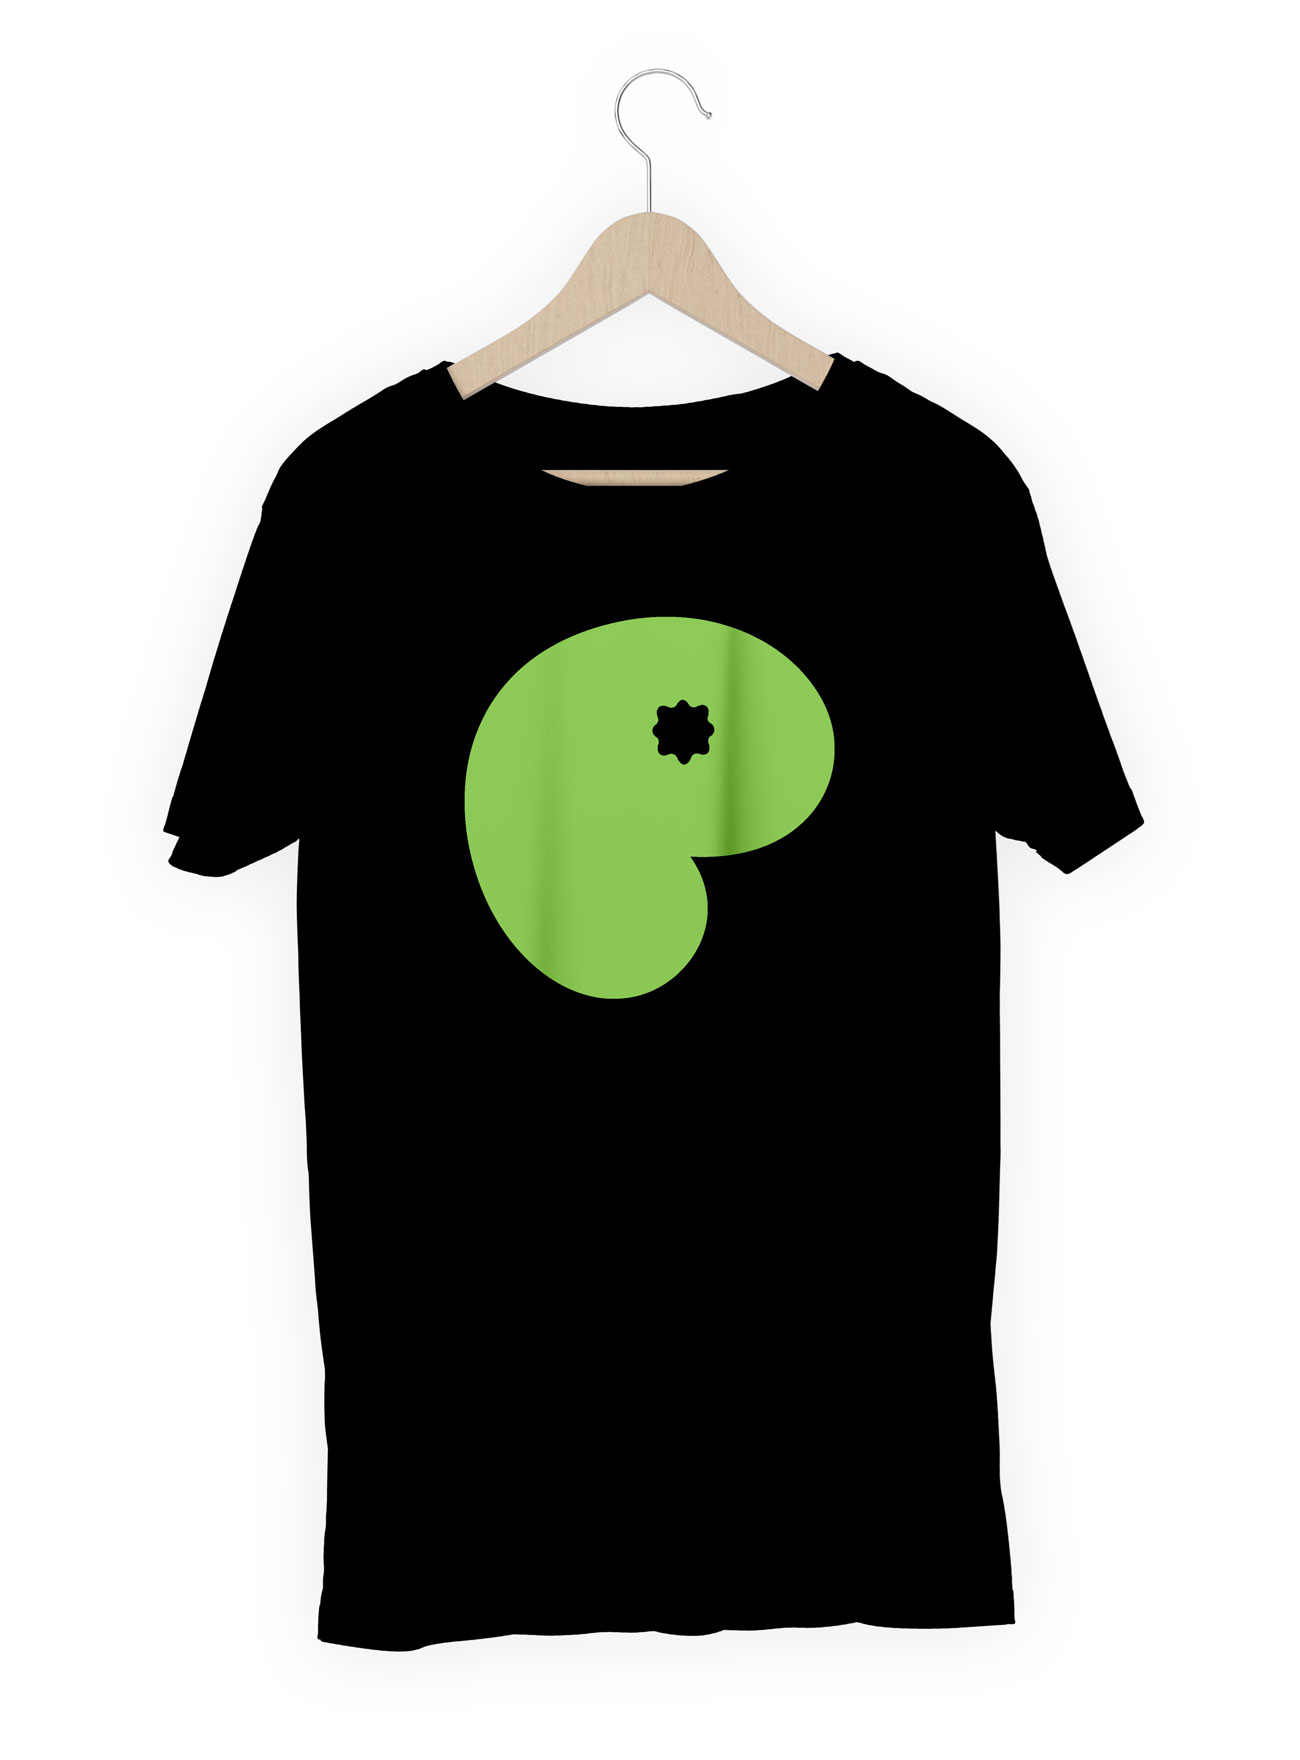
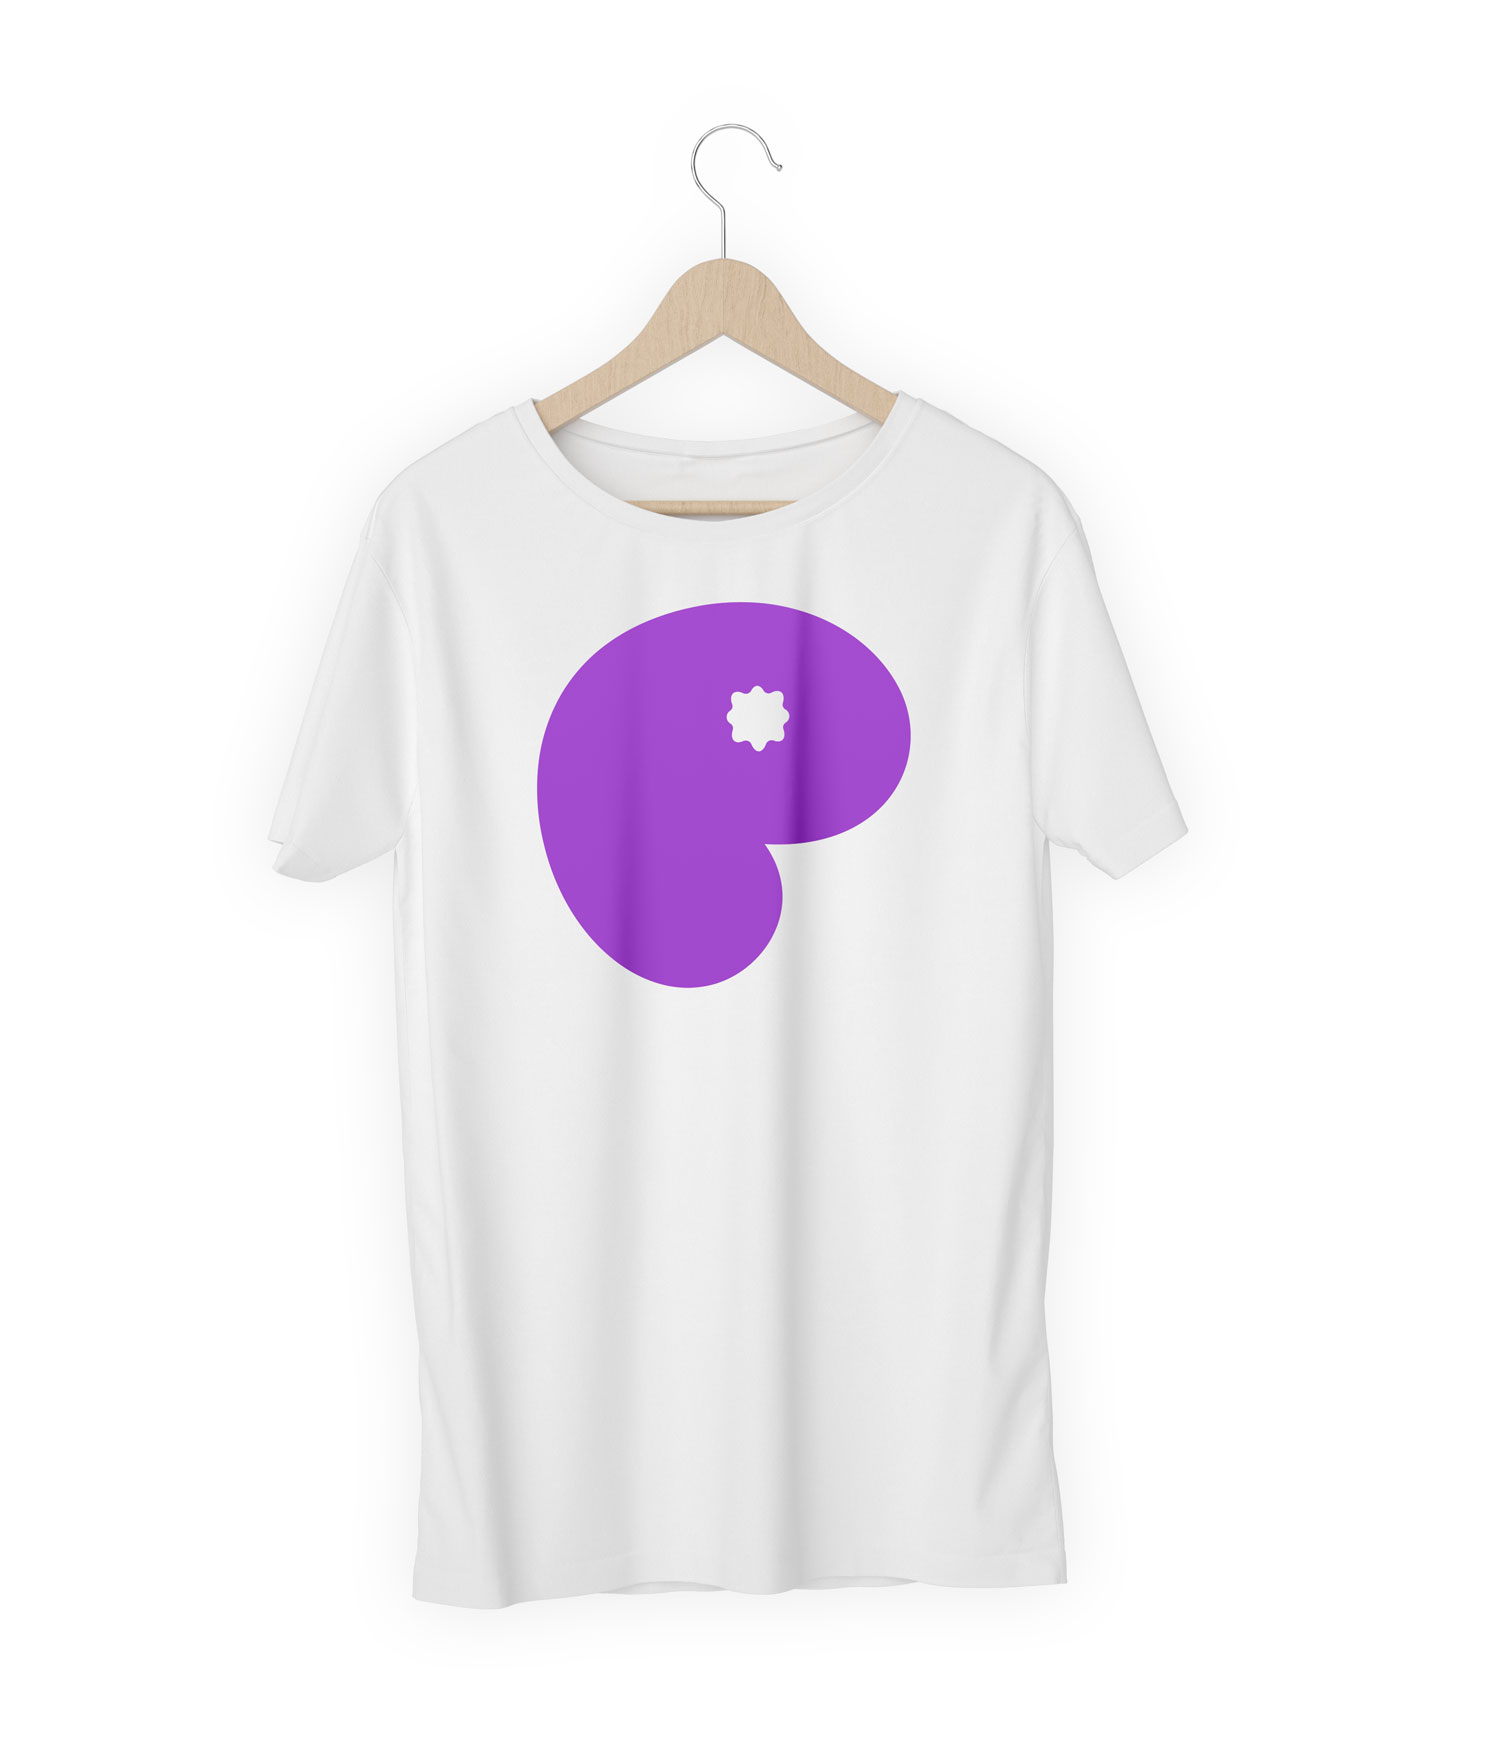
updates

diff --git a/parasite.html b/parasite.html
@@ -33,35 +33,35 @@
                 </p>
         </section>
         <section class="container">
-                <img src="parasite/logo-main.jpg" alt="parasite1" class="pImg3">
-        </section>
-        <section class="container">
-                <img src="parasite/animated-logo.gif" alt="parasite1" class="pImg1">
+                <img src="parasite/logo-main5.jpg" alt="parasite1" class="pImg3">
+        </section><br><br><br>
+       <section class="container">
+                <img src="parasite/logo1.gif" alt="parasite1" class="pImg1">
                 <p class=thirty>
                     The parasitic counter of the logo's &ldquo;P&rdquo; form sometimes takes on a life of its own, rolling independent of its host through various applications. Here it is in a dependent state.
                 </p>
-        </section>
+        </section> 
         <section class="container">
                 <img src="parasite/stationary.jpg" alt="parasite1" class="pImg3">
         </section>
         <section class="container">
-                <img src="parasite/guides.jpg" alt="parasite1" class="pImg1">
-                <img src="parasite/tix.jpg" alt="parasite1" class="pImg2">
+                <img src="parasite/guides2.jpg" alt="parasite1" class="pImg1">
+                <img src="parasite/ticket.jpg" alt="parasite1" class="pImg2">
         </section>
         <section class="container">
-                <img src="parasite/passenger.jpg" alt="parasite1" class="pImg3">        
+                <img src="parasite/pass.jpg" alt="parasite1" class="pImg3">        
         </section>
         <section class="container">
-                <img src="parasite/shirt1.jpg" alt="parasite1" class="pImg2">
+                <img src="parasite/shirt3.jpg" alt="parasite1" class="pImg2">
                 <img src="parasite/bag.jpg" alt="parasite1" class="pImg1">
         </section>
         <section class="container">
-                <img src="parasite/post-signs.jpg" alt="parasite1" class="pImg3">
+                <img src="parasite/lamp_post_signs.jpg" alt="parasite1" class="pImg3">
         </section>
         
-        <section class="container">
+        <!-- <section class="container">
                 <img src="parasite/web.jpg" alt="parasite1" class="pImg3">
-        </section>
+        </section> -->
         <section class="container">
             <p class=thirty>
                     Brand extension proposal:<br><br> During the research phase, I discovered that parasite extinction is a looming threat. To combat this, I conceived of an exhibition/fundraiser, titled "Citizen Parasite." The goals: reverse parasite demonization and raise money for research. The poster set below was designed as part of the extension:

diff --git a/info.html b/info.html
@@ -25,11 +25,12 @@
         </section>
 
         <section class="container">
-                <p class="fiftySeven">
+            
+                <p class="fiftyseven">
                     Hello! I am a graphic designer and writer, soon to graduate from the Rhode Island School of Design. I am always taking freelance inquiries, and I am seeking employment for after I receive my BFA in June.<br><br>Currently, I work at <a href="http://our.risd.edu/tagged/jallegro" target="_blank"><u>RISD Media Group</u></a> as a senior media assistant, as well as the RISD Center for Arts & Language as a tutor. When I'm not designing or writing, I like being outside, hanging with dogs, and food is also good. 
                      <br><br><u><a href="mailto:jallegro@risd.edu">jallegro@risd.edu</a></u><br><br><u><a href="https://www.instagram.com/jallegro.kp/" target="_blank">Instagram</a></u><br><br><u><a href="https://www.linkedin.com/in/joseph-allegro-67b084b3/" target="_blank">LinkedIn</a></u>
                 </p>
-                <img src="portrait.png" alt="portrait1" class="pImg2">
+             <img src="portrait.png" alt="portrait1" class="pImg2">   
         </section>
     </body>
 </html>

diff --git a/seniorshow.html b/seniorshow.html
@@ -13,7 +13,7 @@
     	<meta name="viewport" content="width=device-width, initial-scale=1">
     	<link rel="stylesheet" href="https://use.typekit.net/yat5etw.css">
     	<script src="https://ajax.googleapis.com/ajax/libs/jquery/3.3.1/jquery.min.js"></script>
-    	<title>Joseph Allegro</title>
+    	<title>Joseph Allegro—RISD Graphic Design Senior Show</title>
     	<link rel="stylesheet" type="text/css" href="joseph.css">
 	</head>
 	<body>

diff --git a/index.html b/index.html
@@ -26,7 +26,7 @@
 		<section id="container">
 			<div class ="image2">
 				<a href="parasite.html">
-				<img src="parasite/p_urple.png" alt="parasite" class="project"></a>
+				<img src="parasite/animate-front.gif" alt="parasite" class="project"></a>
 			 </div> 
 			 <div class ="image1">
 				<a href="halcyon.html">
